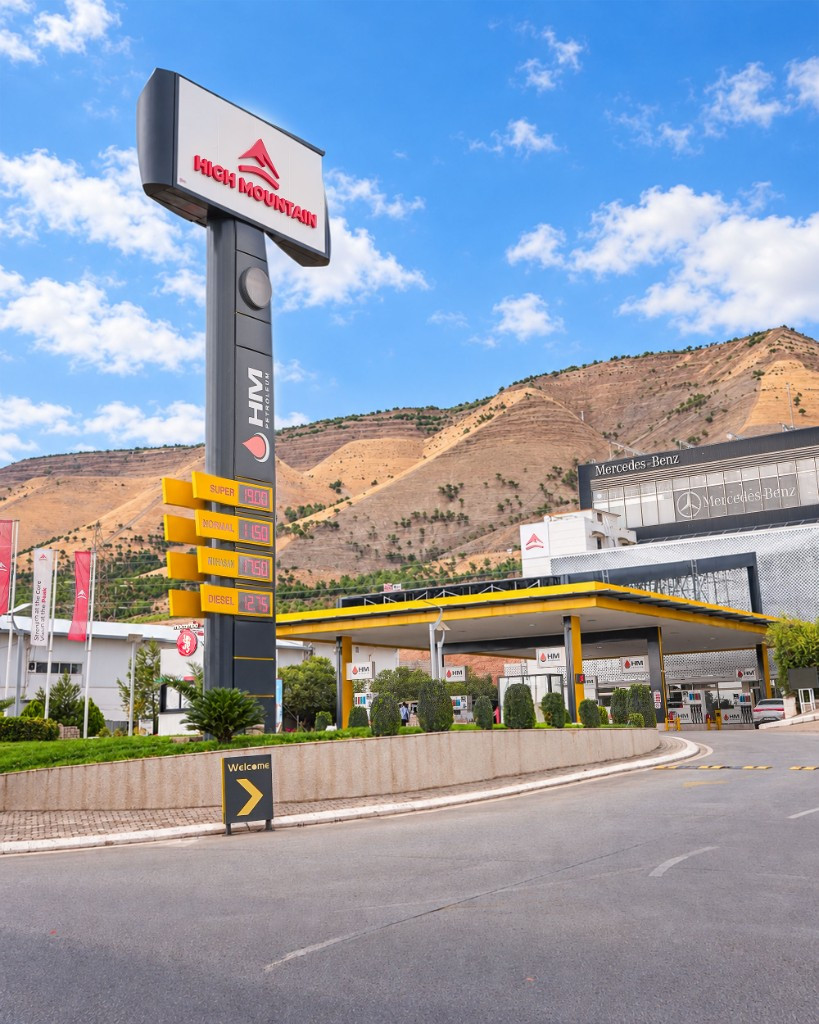
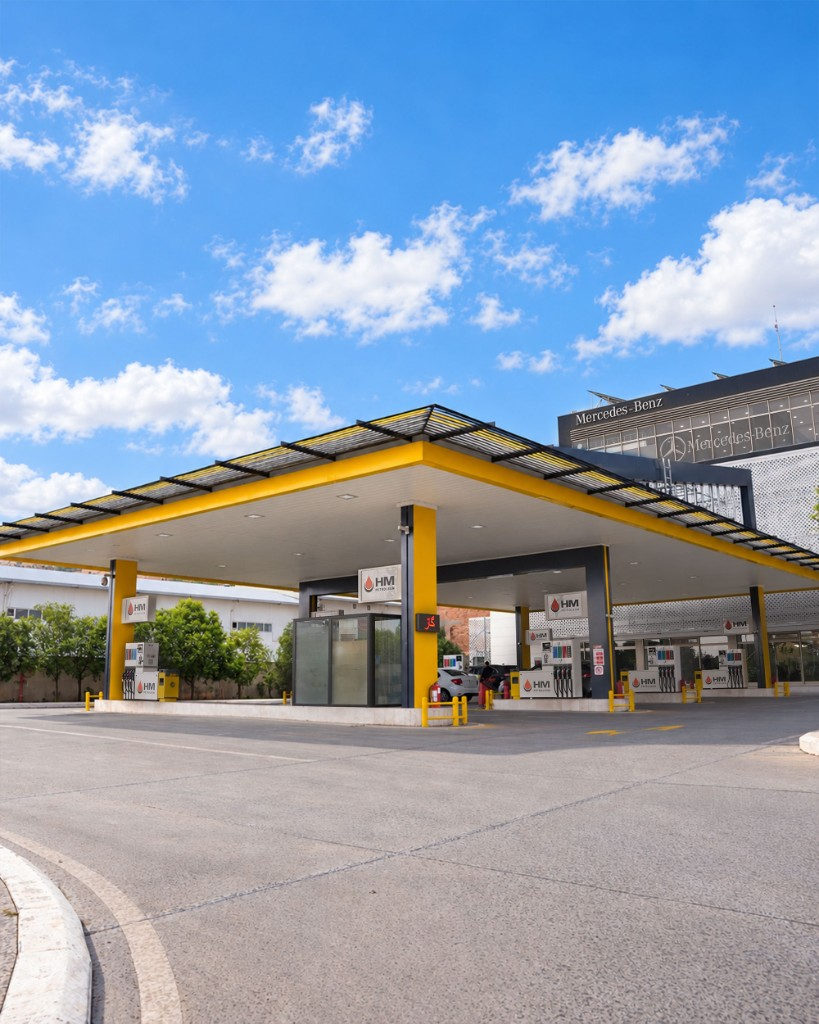
Replace the Goizha station photo.

diff --git a/index.html b/index.html
@@ -325,7 +325,7 @@
                 </div>
                 <div class="mt-12 grid gap-6 sm:grid-cols-2">
                     <article class="rise rise-2 group relative overflow-hidden text-white">
-                        <img src="images/azadi.jpg?v=3" alt="High Mountain fuel station in Goizha, yellow canopy and HM pumps" class="block h-auto w-full transition duration-700 ease-out group-hover:scale-105" />
+                        <img src="images/azadi.jpg?v=4" alt="High Mountain fuel station in Goizha, yellow canopy and HM pumps" class="block h-auto w-full transition duration-700 ease-out group-hover:scale-105" />
                         <div class="absolute inset-0 bg-gradient-to-t from-black via-black/35 to-transparent transition duration-700 group-hover:via-black/20"></div>
                         <div class="absolute inset-x-0 bottom-0 p-6">
                             <p class="font-display text-sm text-gold">01</p>
